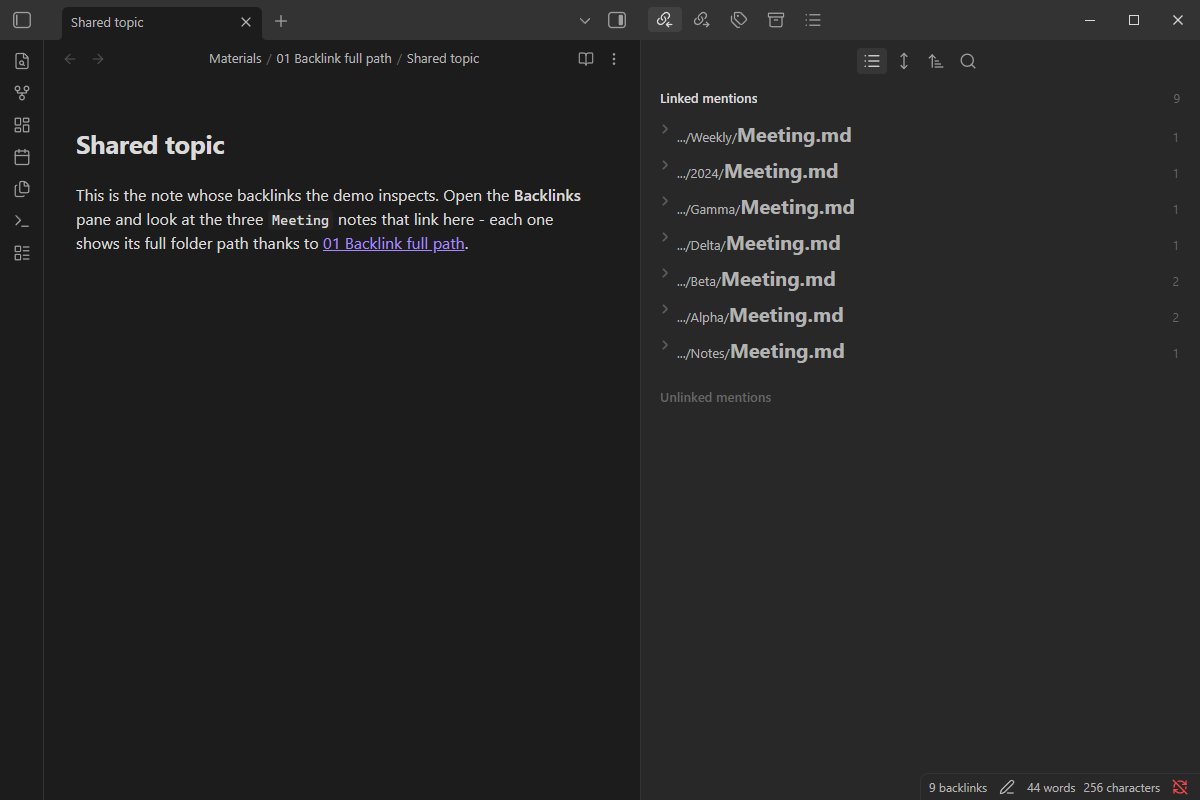
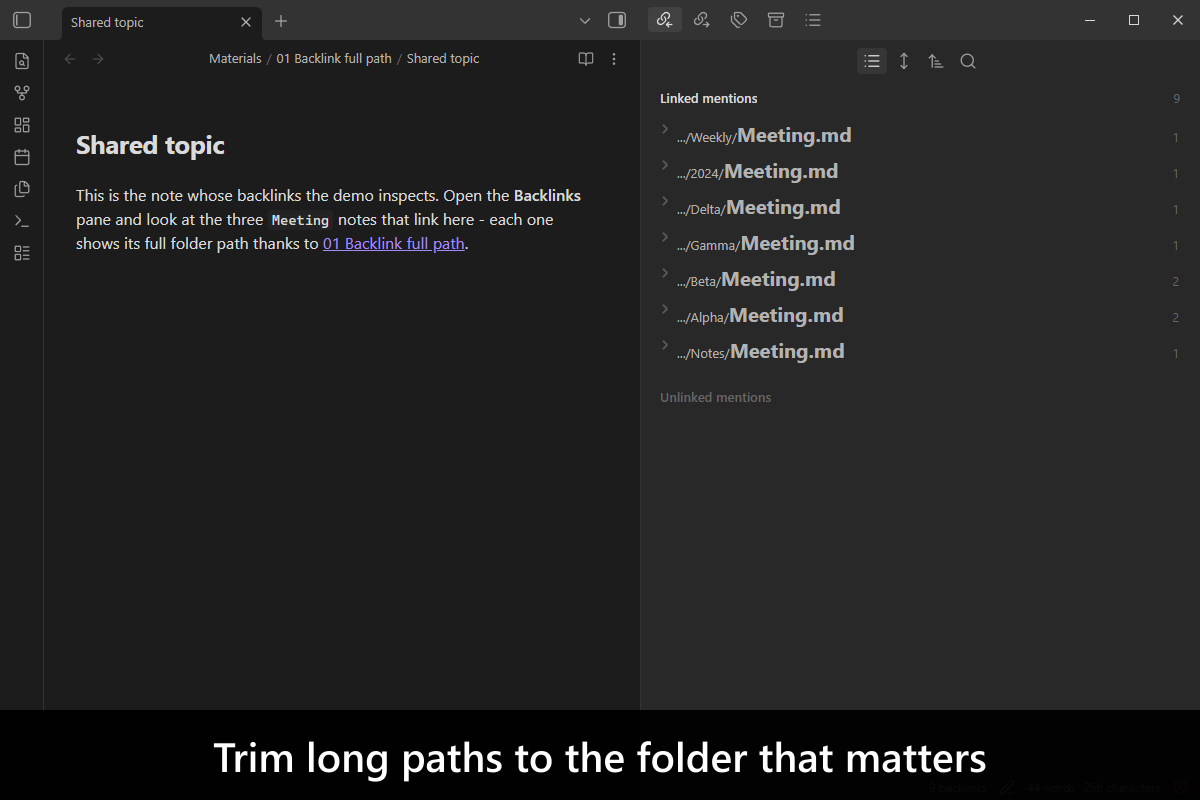
feat: caption every screenshot, and restore the before-shot
Each of the ten screenshots now carries a short caption, drawn across the bottom
of the frame after capture by OIT's labelScreenshot. A store listing shows
screenshots one at a time in a carousel with no caption of its own, so an image
has to say what it is showing.

That makes the "without the plugin" shot safe to include again, so it is back as
shot 2 in both sets. It was dropped precisely because an unlabelled before-shot
reads as a picture of what the plugin DOES rather than of what it fixes; the
caption removes that reading. shouldDisplayParentPathOnSeparateLine, the least
distinctive of the renderings, gives up its slot.

Captioning happens after capture, deliberately: the frame stays an untouched
Obsidian window, and rewording a label needs no re-shoot. The band also covers
the status bar, word count and sync indicator, which are chrome rather than
content.

The mobile font override is dropped back to Obsidian's 16px default. The 18px
bump existed for the downscaled composite; at native 900x1600 nothing is
downscaled and 18px pushed the longest path into a mid-word wrap.

Changed region(s): [[0.0, 0.875, 1.0, 1.0], [0.5858, 0.25, 0.7092, 0.3125]]

diff --git a/src/screenshots.android-capture.integration.test.ts b/src/screenshots.android-capture.integration.test.ts
@@ -6,11 +6,9 @@
  * Android emulator and writing `images/screenshot-mobile-N.png`.
  *
  * The mobile counterpart of the desktop capture suite, showing the same five
- * capabilities. Every shot shows the plugin WORKING — there is deliberately no
- * "plugin disabled" before-shot, because a listing carousel shows these one at a
- * time with no caption. What differs from desktop is the frame — a phone shows the backlinks in a drawer over the note
- * rather than beside it, which is exactly why the mobile set is worth taking
- * rather than reusing the desktop images.
+ * captioned capabilities. What differs is the frame — a phone shows the
+ * backlinks in a drawer over the note rather than beside it, which is exactly
+ * why the mobile set is worth taking rather than reusing the desktop images.
  *
  * There is no mobile equivalent of the desktop viewport override, so the capture
  * is always the device's own framebuffer. The fix is therefore to make the
@@ -49,6 +47,7 @@ import {
   buildDemoVaultPopulate,
   captureObsidianScreenshot,
   evalInObsidian,
+  labelScreenshot,
   readPngDimensions
 } from 'obsidian-integration-testing';
 import { getTemporaryVault } from 'obsidian-integration-testing/vitest-global-setup-plugin';
@@ -120,9 +119,14 @@ const SUBJECT_NOTE_PATH = 'Materials/01 Backlink full path/Shared topic.md';
 const SUBJECT_ROOT_PATH = 'Materials/01 Backlink full path';
 
 /**
- * Base font size for the mobile shots, against Obsidian's 16px default.
+ * Base font size for the mobile shots.
+ *
+ * Left at Obsidian's own 16px default. An 18px bump was tried while the capture
+ * was being DOWNSCALED from 1344 wide to 718, where it was needed for
+ * legibility; at native 900x1600 nothing is downscaled, and 18px pushes the
+ * longest path into a mid-word wrap that reads as a rendering bug.
  */
-const MOBILE_FONT_SIZE_IN_PIXELS = 18;
+const MOBILE_FONT_SIZE_IN_PIXELS = 16;
 
 /**
  * Extra notes staged for the screenshots ONLY, all named `Meeting` and all
@@ -245,38 +249,42 @@ beforeAll(async () => {
 describe('mobile store screenshots', () => {
   it('renders the backlinks pane the shots are framed on', () => {
     // Surfaced as an assertion because vitest swallows console output from an
-    // Integration worker, and a silently-wrong layout produces five bad images.
+    // Integration worker, and a silently-wrong layout produces five bad images
+    // Without a single failure — which is exactly what happened once.
     expect(setupDiagnostics).toMatchObject({ hasBacklinkComponent: true });
   });
 
-  it('1 - backlinks carry their full path, so seven notes called Meeting are told apart', async () => {
-    await setSettings({ pathDepth: 0, shouldDisplayParentPathOnSeparateLine: false, shouldReversePathParts: false });
-    await shoot(1);
+  it('1 - every backlink carries its full path', async () => {
+    await setSettings({ pathDepth: 0, rootPaths: [], shouldDisplayParentPathOnSeparateLine: false, shouldReversePathParts: false });
+    await shoot(1, 'Every backlink shows its full folder path');
   });
 
-  it('2 - rootPaths shows each path relative to a folder you nominate', async () => {
-    // Deliberately NOT a "plugin disabled" before-shot. A listing carousel shows
-    // These one at a time with no caption, so an unlabelled before-shot reads as
-    // "this plugin shows six identical Meeting rows" — the opposite of the
-    // Message. Every shot in the set therefore shows the plugin WORKING.
+  it('2 - the same pane without the plugin, for contrast', async () => {
+    // A before-shot is only safe BECAUSE of the caption. A listing carousel
+    // Shows screenshots one at a time, so an unlabelled one reads as a picture
+    // Of what the plugin does, not of what it fixes.
+    await setPluginEnabled(false);
+    await shoot(2, 'Without the plugin: seven notes, all named Meeting');
+    await setPluginEnabled(true);
+  });
+
+  it('3 - rootPaths shows each path relative to a folder you nominate', async () => {
     await setSettings({ pathDepth: 0, rootPaths: [SUBJECT_ROOT_PATH], shouldReversePathParts: false });
-    await shoot(2);
+    await shoot(3, 'Show paths relative to a folder you choose');
     await setSettings({ rootPaths: [] });
   });
 
-  it('3 - the folder path can sit on its own line above the file name', async () => {
-    await setSettings({ shouldDisplayParentPathOnSeparateLine: true });
-    await shoot(3);
-  });
-
-  it('4 - pathDepth trims deep paths to the folder that matters, with an ellipsis', async () => {
+  it('4 - pathDepth trims deep paths to the folder that matters', async () => {
+    // The depth counts the FILE NAME too, so 2 keeps exactly one folder. Depth 1
+    // Keeps none, rendering identical trimmed rows — the very confusion this
+    // Plugin exists to remove, which is no way to sell it.
     await setSettings({ pathDepth: 2, shouldDisplayParentPathOnSeparateLine: false });
-    await shoot(4);
+    await shoot(4, 'Trim long paths to the folder that matters');
   });
 
-  it('5 - the path can read outwards from the file, for scanning by file name first', async () => {
+  it('5 - the path can read outwards from the file', async () => {
     await setSettings({ pathDepth: 0, shouldReversePathParts: true });
-    await shoot(5);
+    await shoot(5, 'Or read the path outwards, file name first');
   });
 });
 
@@ -299,6 +307,35 @@ function buildStagedMeetingNotes(): Record<string, string> {
   }
 
   return notes;
+}
+
+/**
+ * Enables or disables the plugin, for the one shot that shows the state its
+ * absence leaves behind.
+ *
+ * @param isEnabled - Whether the plugin should be on.
+ */
+async function setPluginEnabled(isEnabled: boolean): Promise<void> {
+  await evalInObsidian({
+    async callback({ app, isEnabled: shouldEnable, pluginId }) {
+      const SETTLE_DELAY_IN_MILLISECONDS = 1500;
+
+      if (shouldEnable) {
+        await app.plugins.enablePlugin(pluginId);
+      } else {
+        await app.plugins.disablePlugin(pluginId);
+      }
+
+      // Toggling the plugin closes the drawer, so the pane has to be re-opened
+      // AND re-expanded — otherwise the shot is a picture of the note, showing
+      // No backlinks at all, which demonstrates nothing.
+      app.commands.executeCommandById('backlink:open');
+      app.workspace.rightSplit.expand();
+      await sleep(SETTLE_DELAY_IN_MILLISECONDS);
+    },
+    input: { isEnabled, pluginId: PLUGIN_ID },
+    vaultPath: vaultPath()
+  });
 }
 
 /**
@@ -337,7 +374,7 @@ async function setSettings(settings: Record<string, boolean | number | string[]>
  *
  * @param index - The 1-based listing position.
  */
-async function shoot(index: number): Promise<void> {
+async function shoot(index: number, caption: string): Promise<void> {
   const captured = await captureObsidianScreenshot({ vaultPath: vaultPath() });
 
   // The AVD is 900x1600, so the device frame IS the store's size — no crop, no
@@ -349,8 +386,13 @@ async function shoot(index: number): Promise<void> {
     widthInPixels: WIDTH_IN_PIXELS
   });
 
+  // Captioned AFTER capture, so the frame stays an untouched device screenshot
+  // And rewording a label needs no re-shoot. The band also covers the sync
+  // Indicator and word count, which are chrome rather than content.
+  const labeled = await labelScreenshot(captured, { text: caption });
+
   mkdirSync(IMAGES_DIRECTORY, { recursive: true });
-  writeFileSync(join(IMAGES_DIRECTORY, `screenshot-mobile-${String(index)}.png`), captured);
+  writeFileSync(join(IMAGES_DIRECTORY, `screenshot-mobile-${String(index)}.png`), labeled);
 }
 
 function vaultPath(): string {

diff --git a/src/screenshots.desktop-capture.integration.test.ts b/src/screenshots.desktop-capture.integration.test.ts
@@ -11,10 +11,12 @@
  * reproducible — when a UI change dates a shot, re-running this regenerates it,
  * and the storyboard is reviewed in the same diff as the change that dated it.
  *
- * Each shot shows a DIFFERENT capability, and every one shows the plugin
- * WORKING. There is deliberately no "plugin disabled" before-shot: a listing
- * carousel shows these one at a time with no caption, so an unlabelled
- * before-shot reads as a picture of the problem the plugin causes.
+ * Each shot shows a DIFFERENT capability, and each is CAPTIONED by
+ * `labelScreenshot` after capture. The caption is what makes shot 2 — the pane
+ * without the plugin — safe to include: a listing carousel shows screenshots one
+ * at a time, so an unlabelled before-shot reads as a picture of what the plugin
+ * DOES rather than of what it fixes. It was dropped for exactly that reason
+ * before captions existed.
  *
  * There is deliberately NO settings-tab shot. Obsidian's settings modal attaches
  * itself through `activeWindow`/`activeDocument`, and under CDP evaluation
@@ -34,6 +36,7 @@ import {
   buildDemoVaultPopulate,
   captureObsidianScreenshot,
   evalInObsidian,
+  labelScreenshot,
   readPngDimensions
 } from 'obsidian-integration-testing';
 import { getTemporaryVault } from 'obsidian-integration-testing/vitest-global-setup-plugin';
@@ -207,38 +210,37 @@ beforeAll(async () => {
 });
 
 describe('desktop store screenshots', () => {
-  it('1 - backlinks carry their full path, so seven notes called Meeting are told apart', async () => {
-    await setSettings({ pathDepth: 0, shouldDisplayParentPathOnSeparateLine: false, shouldReversePathParts: false });
-    await shoot(1);
+  it('1 - every backlink carries its full path', async () => {
+    await setSettings({ pathDepth: 0, rootPaths: [], shouldDisplayParentPathOnSeparateLine: false, shouldReversePathParts: false });
+    await shoot(1, 'Every backlink shows its full folder path');
   });
 
-  it('2 - rootPaths shows each path relative to a folder you nominate', async () => {
-    // Deliberately NOT a "plugin disabled" before-shot. A listing carousel shows
-    // These one at a time with no caption, so an unlabelled before-shot reads as
-    // "this plugin shows identical Meeting rows" — the opposite of the message.
-    // Every shot in the set therefore shows the plugin WORKING.
+  it('2 - the same pane without the plugin, for contrast', async () => {
+    // A before-shot is only safe BECAUSE of the caption. A listing carousel
+    // Shows screenshots one at a time, so an unlabelled one reads as a picture
+    // Of what the plugin does, not of what it fixes.
+    await setPluginEnabled(false);
+    await shoot(2, 'Without the plugin: seven notes, all named Meeting');
+    await setPluginEnabled(true);
+  });
+
+  it('3 - rootPaths shows each path relative to a folder you nominate', async () => {
     await setSettings({ pathDepth: 0, rootPaths: [SUBJECT_ROOT_PATH], shouldReversePathParts: false });
-    await shoot(2);
+    await shoot(3, 'Show paths relative to a folder you choose');
     await setSettings({ rootPaths: [] });
   });
 
-  it('3 - the folder path can sit on its own line above the file name', async () => {
-    await setSettings({ shouldDisplayParentPathOnSeparateLine: true });
-    await shoot(3);
-  });
-
-  it('4 - pathDepth trims deep paths to the folder that matters, with an ellipsis', async () => {
-    // `partsToSkipCount = parentPathParts.length - pathDepth + 1`, so the depth
-    // Counts the file name too: 2 keeps exactly one folder. Depth 1 keeps NONE,
-    // Rendering three identical `.../Meeting.md` rows — the very confusion this
+  it('4 - pathDepth trims deep paths to the folder that matters', async () => {
+    // The depth counts the FILE NAME too, so 2 keeps exactly one folder. Depth 1
+    // Keeps none, rendering identical trimmed rows — the very confusion this
     // Plugin exists to remove, which is no way to sell it.
     await setSettings({ pathDepth: 2, shouldDisplayParentPathOnSeparateLine: false });
-    await shoot(4);
+    await shoot(4, 'Trim long paths to the folder that matters');
   });
 
-  it('5 - the path can read outwards from the file, for scanning by file name first', async () => {
+  it('5 - the path can read outwards from the file', async () => {
     await setSettings({ pathDepth: 0, shouldReversePathParts: true });
-    await shoot(5);
+    await shoot(5, 'Or read the path outwards, file name first');
   });
 });
 
@@ -261,6 +263,32 @@ function buildStagedMeetingNotes(): Record<string, string> {
   }
 
   return notes;
+}
+
+/**
+ * Enables or disables the plugin, for the one shot that shows the state its
+ * absence leaves behind.
+ *
+ * @param isEnabled - Whether the plugin should be on.
+ */
+async function setPluginEnabled(isEnabled: boolean): Promise<void> {
+  await evalInObsidian({
+    async callback({ app, isEnabled: shouldEnable, pluginId }) {
+      const SETTLE_DELAY_IN_MILLISECONDS = 1000;
+
+      if (shouldEnable) {
+        await app.plugins.enablePlugin(pluginId);
+      } else {
+        await app.plugins.disablePlugin(pluginId);
+      }
+
+      // Toggling the plugin closes the pane, so it has to be re-opened.
+      app.commands.executeCommandById('backlink:open');
+      await sleep(SETTLE_DELAY_IN_MILLISECONDS);
+    },
+    input: { isEnabled, pluginId: PLUGIN_ID },
+    vaultPath: vaultPath()
+  });
 }
 
 /**
@@ -297,20 +325,25 @@ async function setSettings(settings: Record<string, boolean | number | string[]>
  *
  * @param index - The 1-based listing position.
  */
-async function shoot(index: number): Promise<void> {
+async function shoot(index: number, caption: string): Promise<void> {
   const bytes = await captureObsidianScreenshot({
     heightInPixels: HEIGHT_IN_PIXELS,
     vaultPath: vaultPath(),
     widthInPixels: WIDTH_IN_PIXELS
   });
 
-  expect(readPngDimensions(bytes)).toStrictEqual({
+  // Captioned AFTER capture, so the frame stays an untouched Obsidian window and
+  // Rewording a label needs no re-shoot. The band covers the status bar, which
+  // Is chrome rather than content.
+  const labeled = await labelScreenshot(bytes, { text: caption });
+
+  expect(readPngDimensions(labeled)).toStrictEqual({
     heightInPixels: HEIGHT_IN_PIXELS,
     widthInPixels: WIDTH_IN_PIXELS
   });
 
   mkdirSync(IMAGES_DIRECTORY, { recursive: true });
-  writeFileSync(join(IMAGES_DIRECTORY, `screenshot-desktop-${String(index)}.png`), bytes);
+  writeFileSync(join(IMAGES_DIRECTORY, `screenshot-desktop-${String(index)}.png`), labeled);
 }
 
 function vaultPath(): string {
